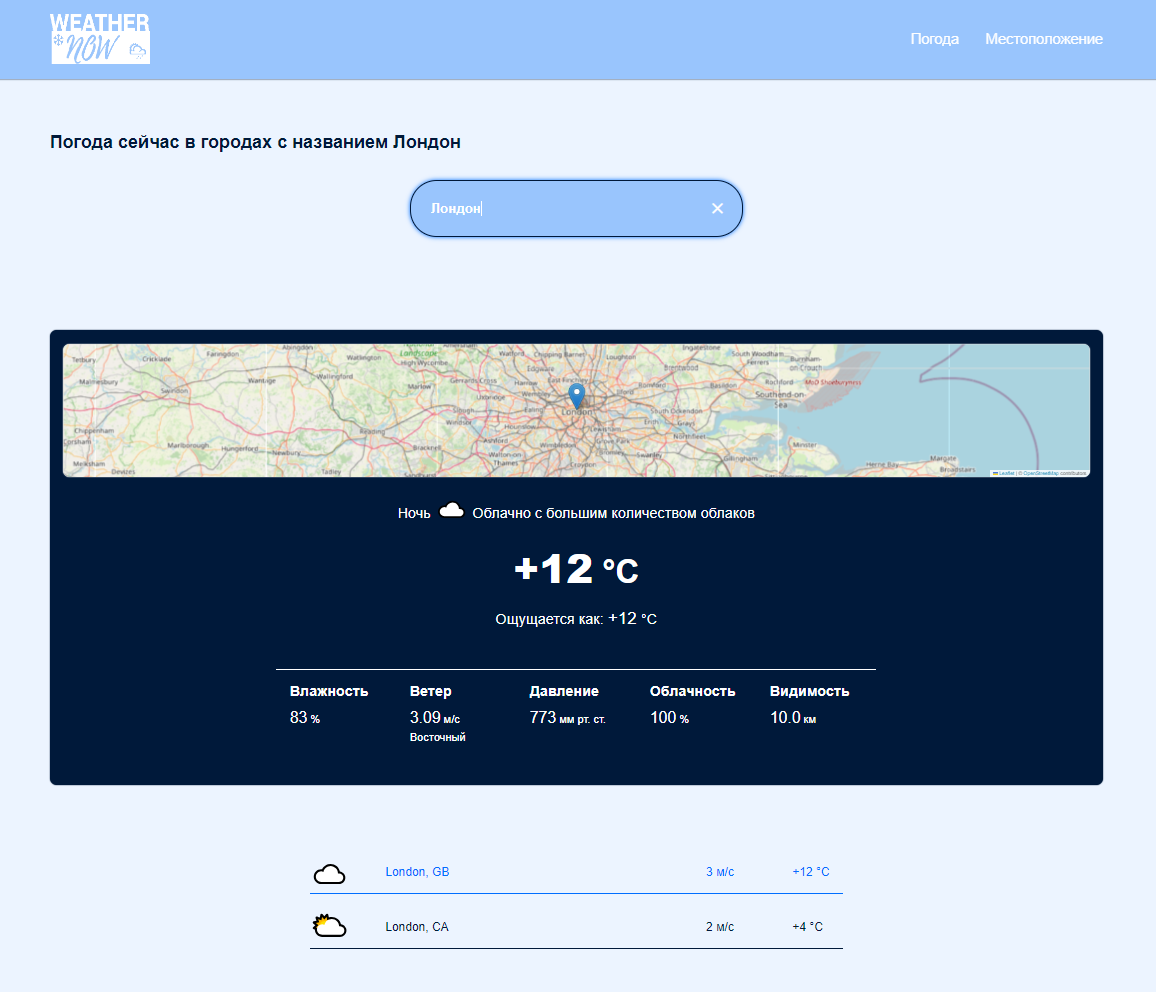
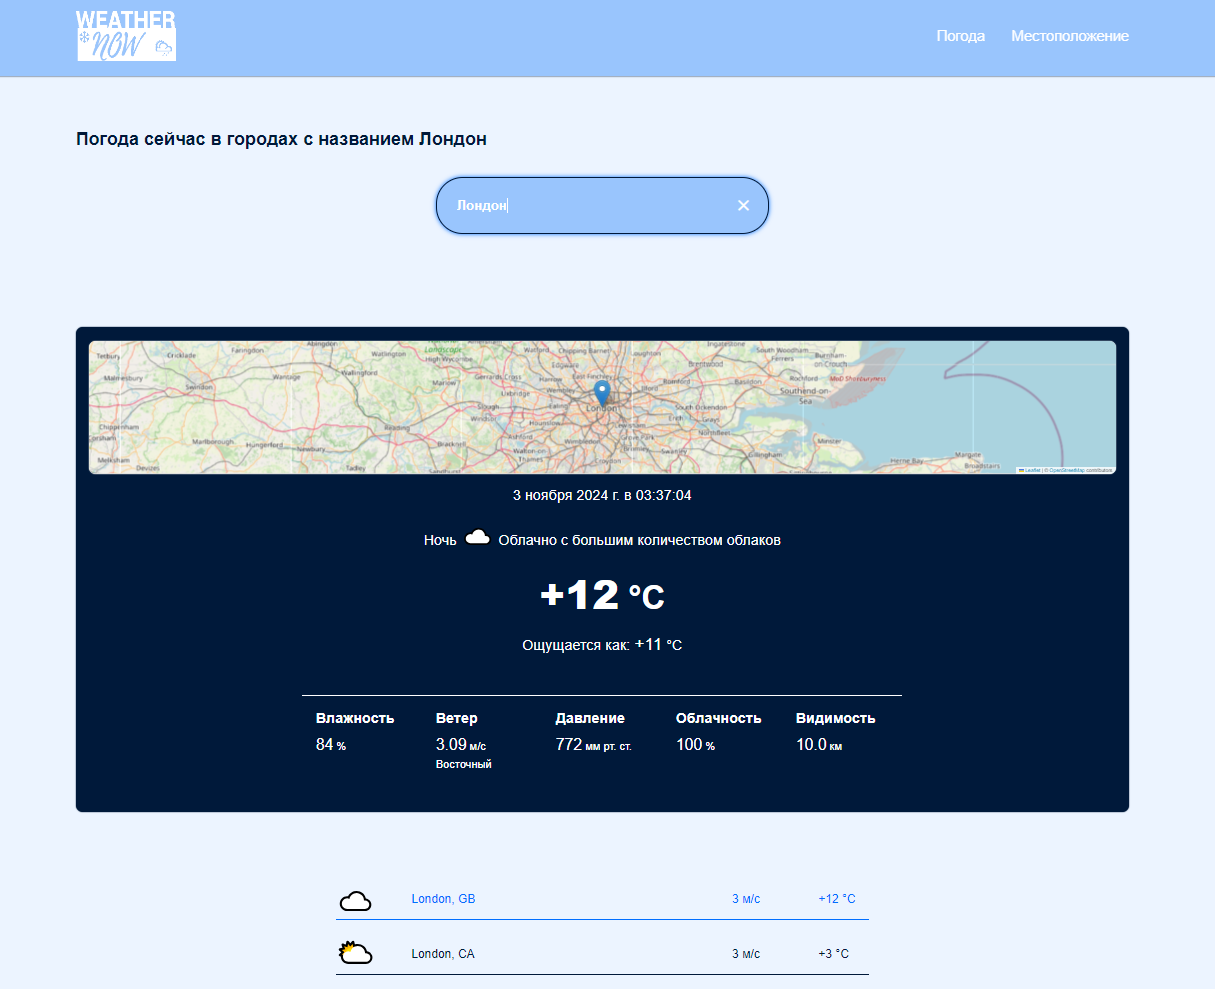
fixed processing 0 val timezone

diff --git a/src/components/weather/WeatherItems.tsx b/src/components/weather/WeatherItems.tsx
@@ -26,12 +26,12 @@ export const WeatherItems: React.FC<{ scrollToSelected: () => void }> = ({
   React.useEffect(() => {
     const tz = citiesFullData[selectedIndex]?.timezone;
 
-    if (!tz) return;
+    if (tz === null) return;
 
     dispatch(setTimezone(tz));
 
     return () => {
-      if (!timezone) return;
+      if (timezone === null) return;
 
       dispatch(setTimezone(null));
     };
